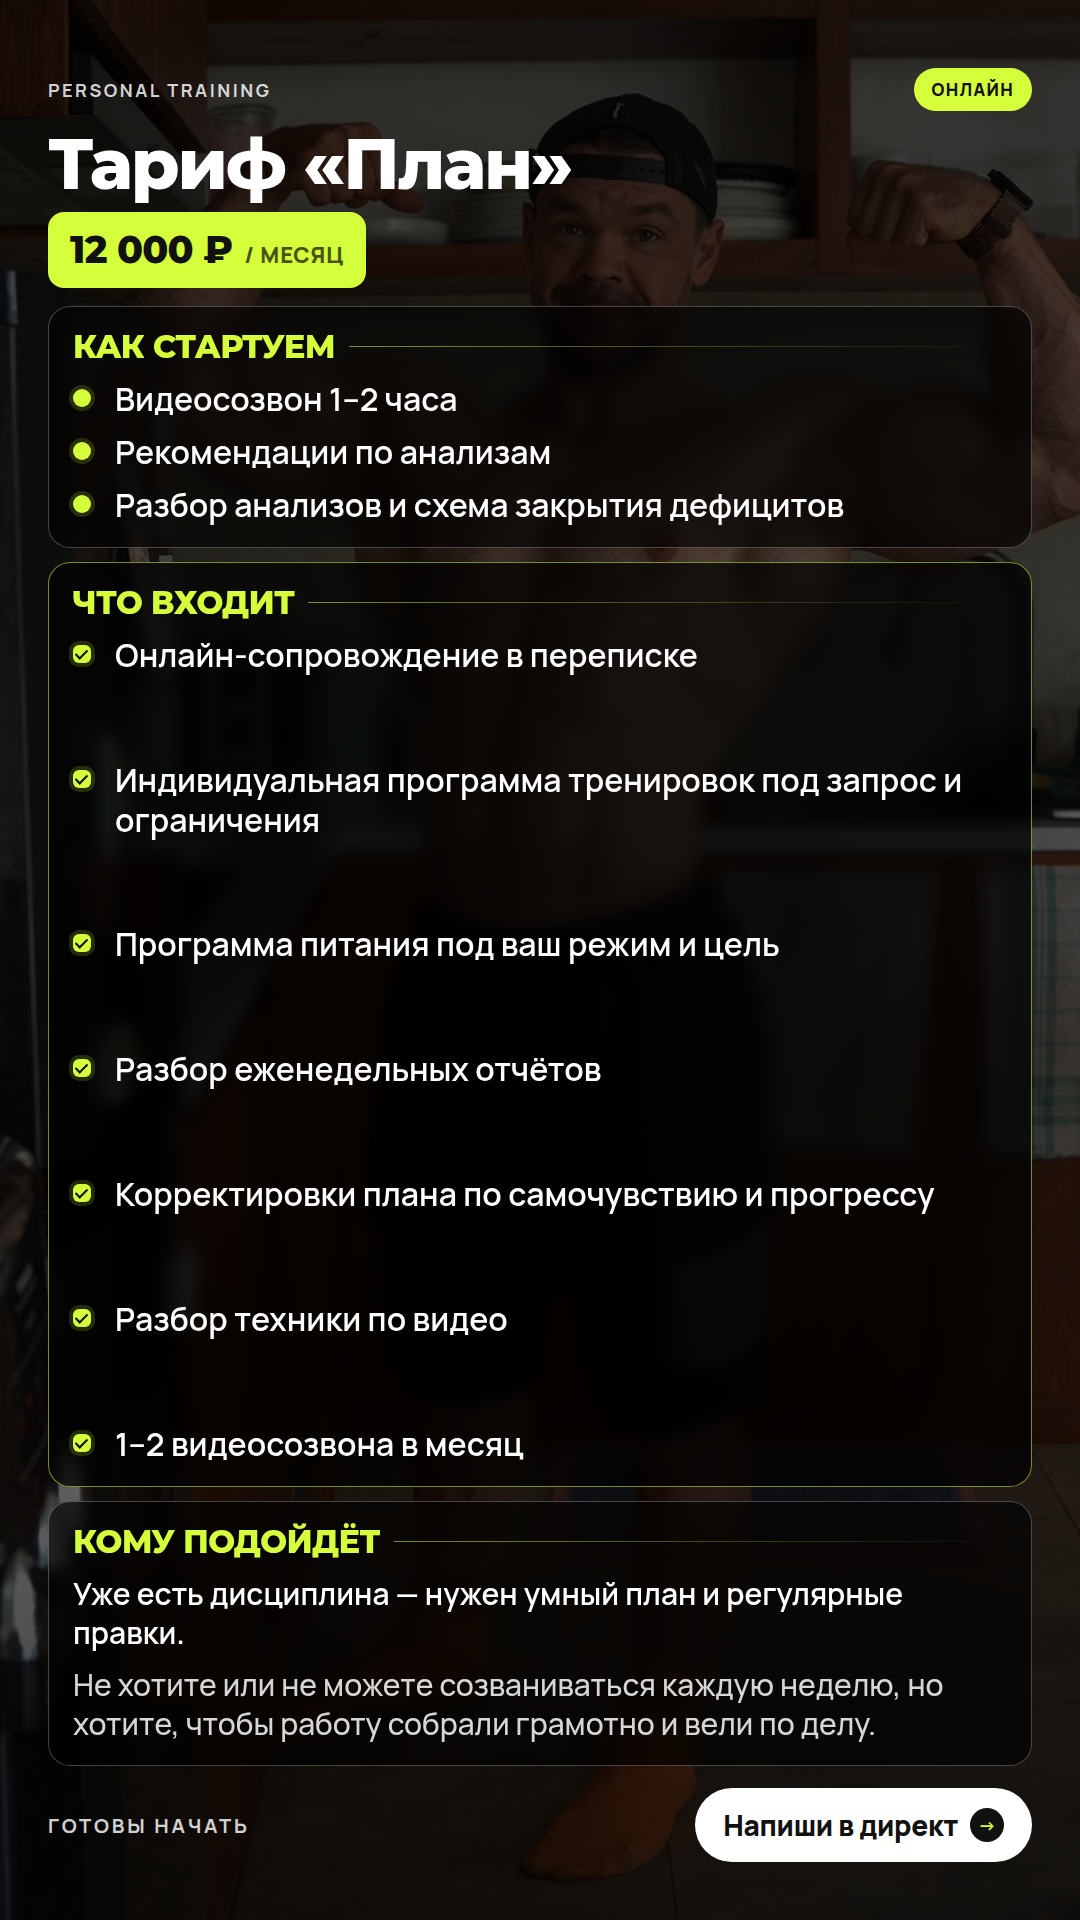
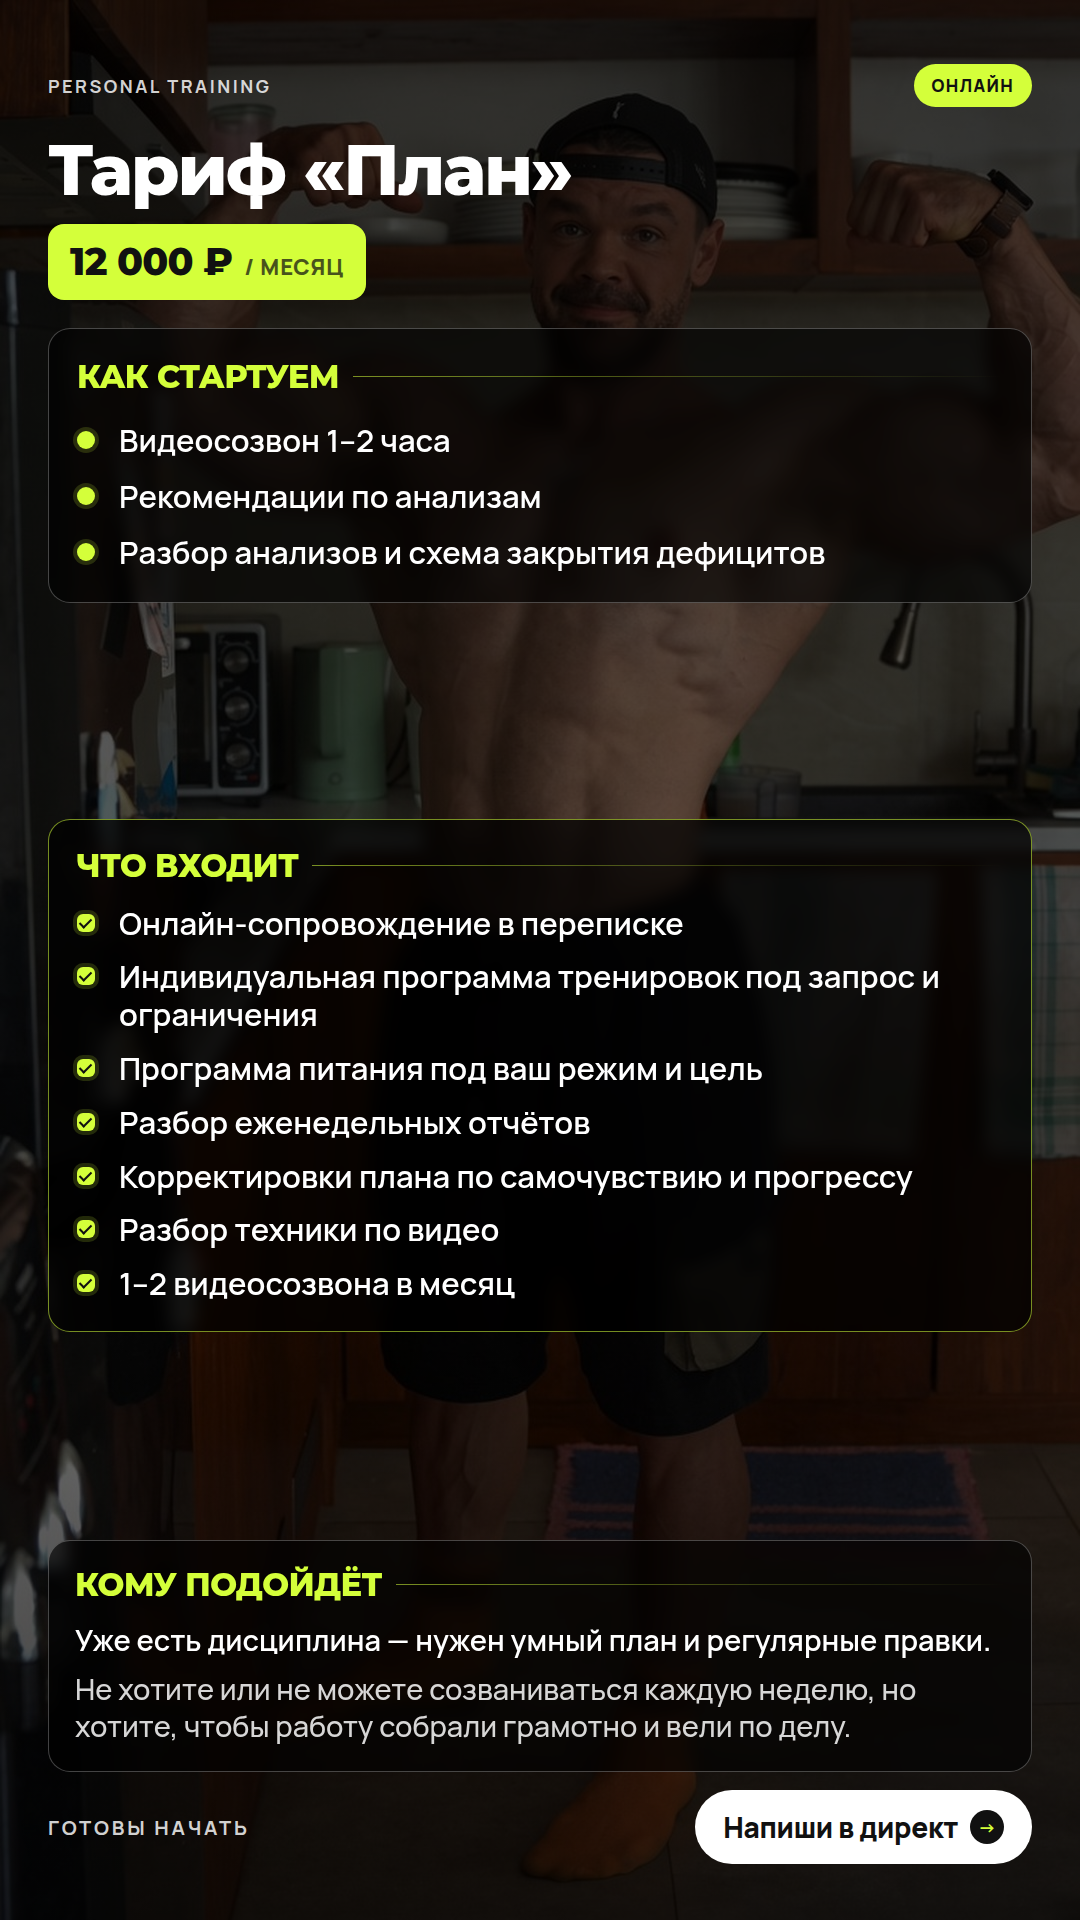
Rebalance Plan story blocks by zone
Add breathing room in the top title/start block, keep What's included
as a compact middle card, and leave the bottom who/CTA section unchanged.

diff --git a/stories/tarif-plan.html b/stories/tarif-plan.html
@@ -46,10 +46,18 @@
       position: relative;
       z-index: 2;
       height: 100%;
-      padding: 68px 48px 58px;
+      padding: 64px 48px 56px;
       display: flex;
       flex-direction: column;
-      gap: 18px;
+    }
+
+    /* ===== TOP BLOCK: more air ===== */
+    .top-block {
+      flex: 0 0 auto;
+      display: flex;
+      flex-direction: column;
+      gap: 28px;
+      padding-bottom: 8px;
     }
 
     .top-row {
@@ -61,7 +69,6 @@
       font-size: 18px;
       font-weight: 700;
       color: var(--muted);
-      flex-shrink: 0;
     }
 
     .top-row .tag {
@@ -77,8 +84,7 @@
     .header {
       display: flex;
       flex-direction: column;
-      gap: 12px;
-      flex-shrink: 0;
+      gap: 18px;
     }
 
     .title {
@@ -113,42 +119,53 @@
       opacity: 0.72;
     }
 
-    .sections {
-      display: flex;
-      flex-direction: column;
-      gap: 14px;
-      flex: 1;
-      min-height: 0;
-    }
-
     .card {
       border: 1px solid var(--line);
       border-radius: 22px;
       background: var(--card);
       backdrop-filter: blur(8px);
-      padding: 20px 24px 22px;
+      padding: 26px 28px 28px;
       display: flex;
       flex-direction: column;
     }
 
-    .card.start,
-    .card.who {
-      flex: 0 0 auto;
+    .card.start {
+      gap: 4px;
+      padding: 28px 28px 30px;
+    }
+
+    .card.start ul {
+      gap: 18px;
+      margin-top: 4px;
+    }
+
+    /* ===== MIDDLE: Что входит in second zone ===== */
+    .middle-block {
+      flex: 1 1 auto;
+      min-height: 0;
+      display: flex;
+      flex-direction: column;
+      justify-content: center;
+      padding: 18px 0;
     }
 
     .card.main {
       border-color: rgba(212, 255, 58, 0.55);
       background: rgba(0, 0, 0, 0.7);
-      flex: 1;
-      min-height: 0;
+      padding: 26px 28px 28px;
+      flex: 0 0 auto;
+    }
+
+    .card.main ul {
+      gap: 16px;
+      margin-top: 2px;
     }
 
     .section-label {
       display: flex;
       align-items: center;
       gap: 14px;
-      margin-bottom: 14px;
-      flex-shrink: 0;
+      margin-bottom: 18px;
     }
 
     .section-label h2 {
@@ -170,14 +187,6 @@
       list-style: none;
       display: flex;
       flex-direction: column;
-      gap: 14px;
-    }
-
-    .card.main ul {
-      flex: 1;
-      justify-content: space-between;
-      gap: 0;
-      min-height: 0;
     }
 
     li {
@@ -185,7 +194,7 @@
       grid-template-columns: 30px 1fr;
       gap: 12px;
       align-items: start;
-      font-size: 32px;
+      font-size: 31px;
       line-height: 1.22;
       font-weight: 600;
       color: var(--text);
@@ -218,15 +227,27 @@
       transform: rotate(45deg);
     }
 
+    /* ===== BOTTOM: keep as is ===== */
+    .bottom-block {
+      flex: 0 0 auto;
+      display: flex;
+      flex-direction: column;
+      gap: 18px;
+    }
+
+    .card.who {
+      padding: 24px 26px 26px;
+    }
+
     .who p {
-      font-size: 30px;
+      font-size: 29px;
       line-height: 1.28;
       font-weight: 600;
       color: var(--text);
     }
 
     .who p + p {
-      margin-top: 14px;
+      margin-top: 12px;
       color: var(--muted);
       font-weight: 500;
     }
@@ -236,8 +257,6 @@
       align-items: center;
       justify-content: space-between;
       gap: 18px;
-      flex-shrink: 0;
-      margin-top: 4px;
     }
 
     .cta-text {
@@ -278,17 +297,17 @@
 <body>
   <div class="story">
     <div class="content">
-      <div class="top-row">
-        <div>Personal training</div>
-        <div class="tag">онлайн</div>
-      </div>
+      <div class="top-block">
+        <div class="top-row">
+          <div>Personal training</div>
+          <div class="tag">онлайн</div>
+        </div>
 
-      <header class="header">
-        <h1 class="title">Тариф «План»</h1>
-        <div class="price">12 000 ₽ <span>/ месяц</span></div>
-      </header>
+        <header class="header">
+          <h1 class="title">Тариф «План»</h1>
+          <div class="price">12 000 ₽ <span>/ месяц</span></div>
+        </header>
 
-      <div class="sections">
         <section class="card start">
           <div class="section-label">
             <h2>Как стартуем</h2>
@@ -300,7 +319,9 @@
             <li><span class="mark"></span><span>Разбор анализов и схема закрытия дефицитов</span></li>
           </ul>
         </section>
+      </div>
 
+      <div class="middle-block">
         <section class="card main">
           <div class="section-label">
             <h2>Что входит</h2>
@@ -316,7 +337,9 @@
             <li class="check"><span class="mark"></span><span>1–2 видеосозвона в месяц</span></li>
           </ul>
         </section>
+      </div>
 
+      <div class="bottom-block">
         <section class="card who">
           <div class="section-label">
             <h2>Кому подойдёт</h2>
@@ -325,13 +348,13 @@
           <p>Уже есть дисциплина — нужен умный план и регулярные правки.</p>
           <p>Не хотите или не можете созваниваться каждую неделю, но хотите, чтобы работу собрали грамотно и вели по делу.</p>
         </section>
-      </div>
 
-      <div class="cta">
-        <div class="cta-text">Готовы начать</div>
-        <div class="cta-pill">
-          Напиши в директ
-          <span class="arrow">→</span>
+        <div class="cta">
+          <div class="cta-text">Готовы начать</div>
+          <div class="cta-pill">
+            Напиши в директ
+            <span class="arrow">→</span>
+          </div>
         </div>
       </div>
     </div>
